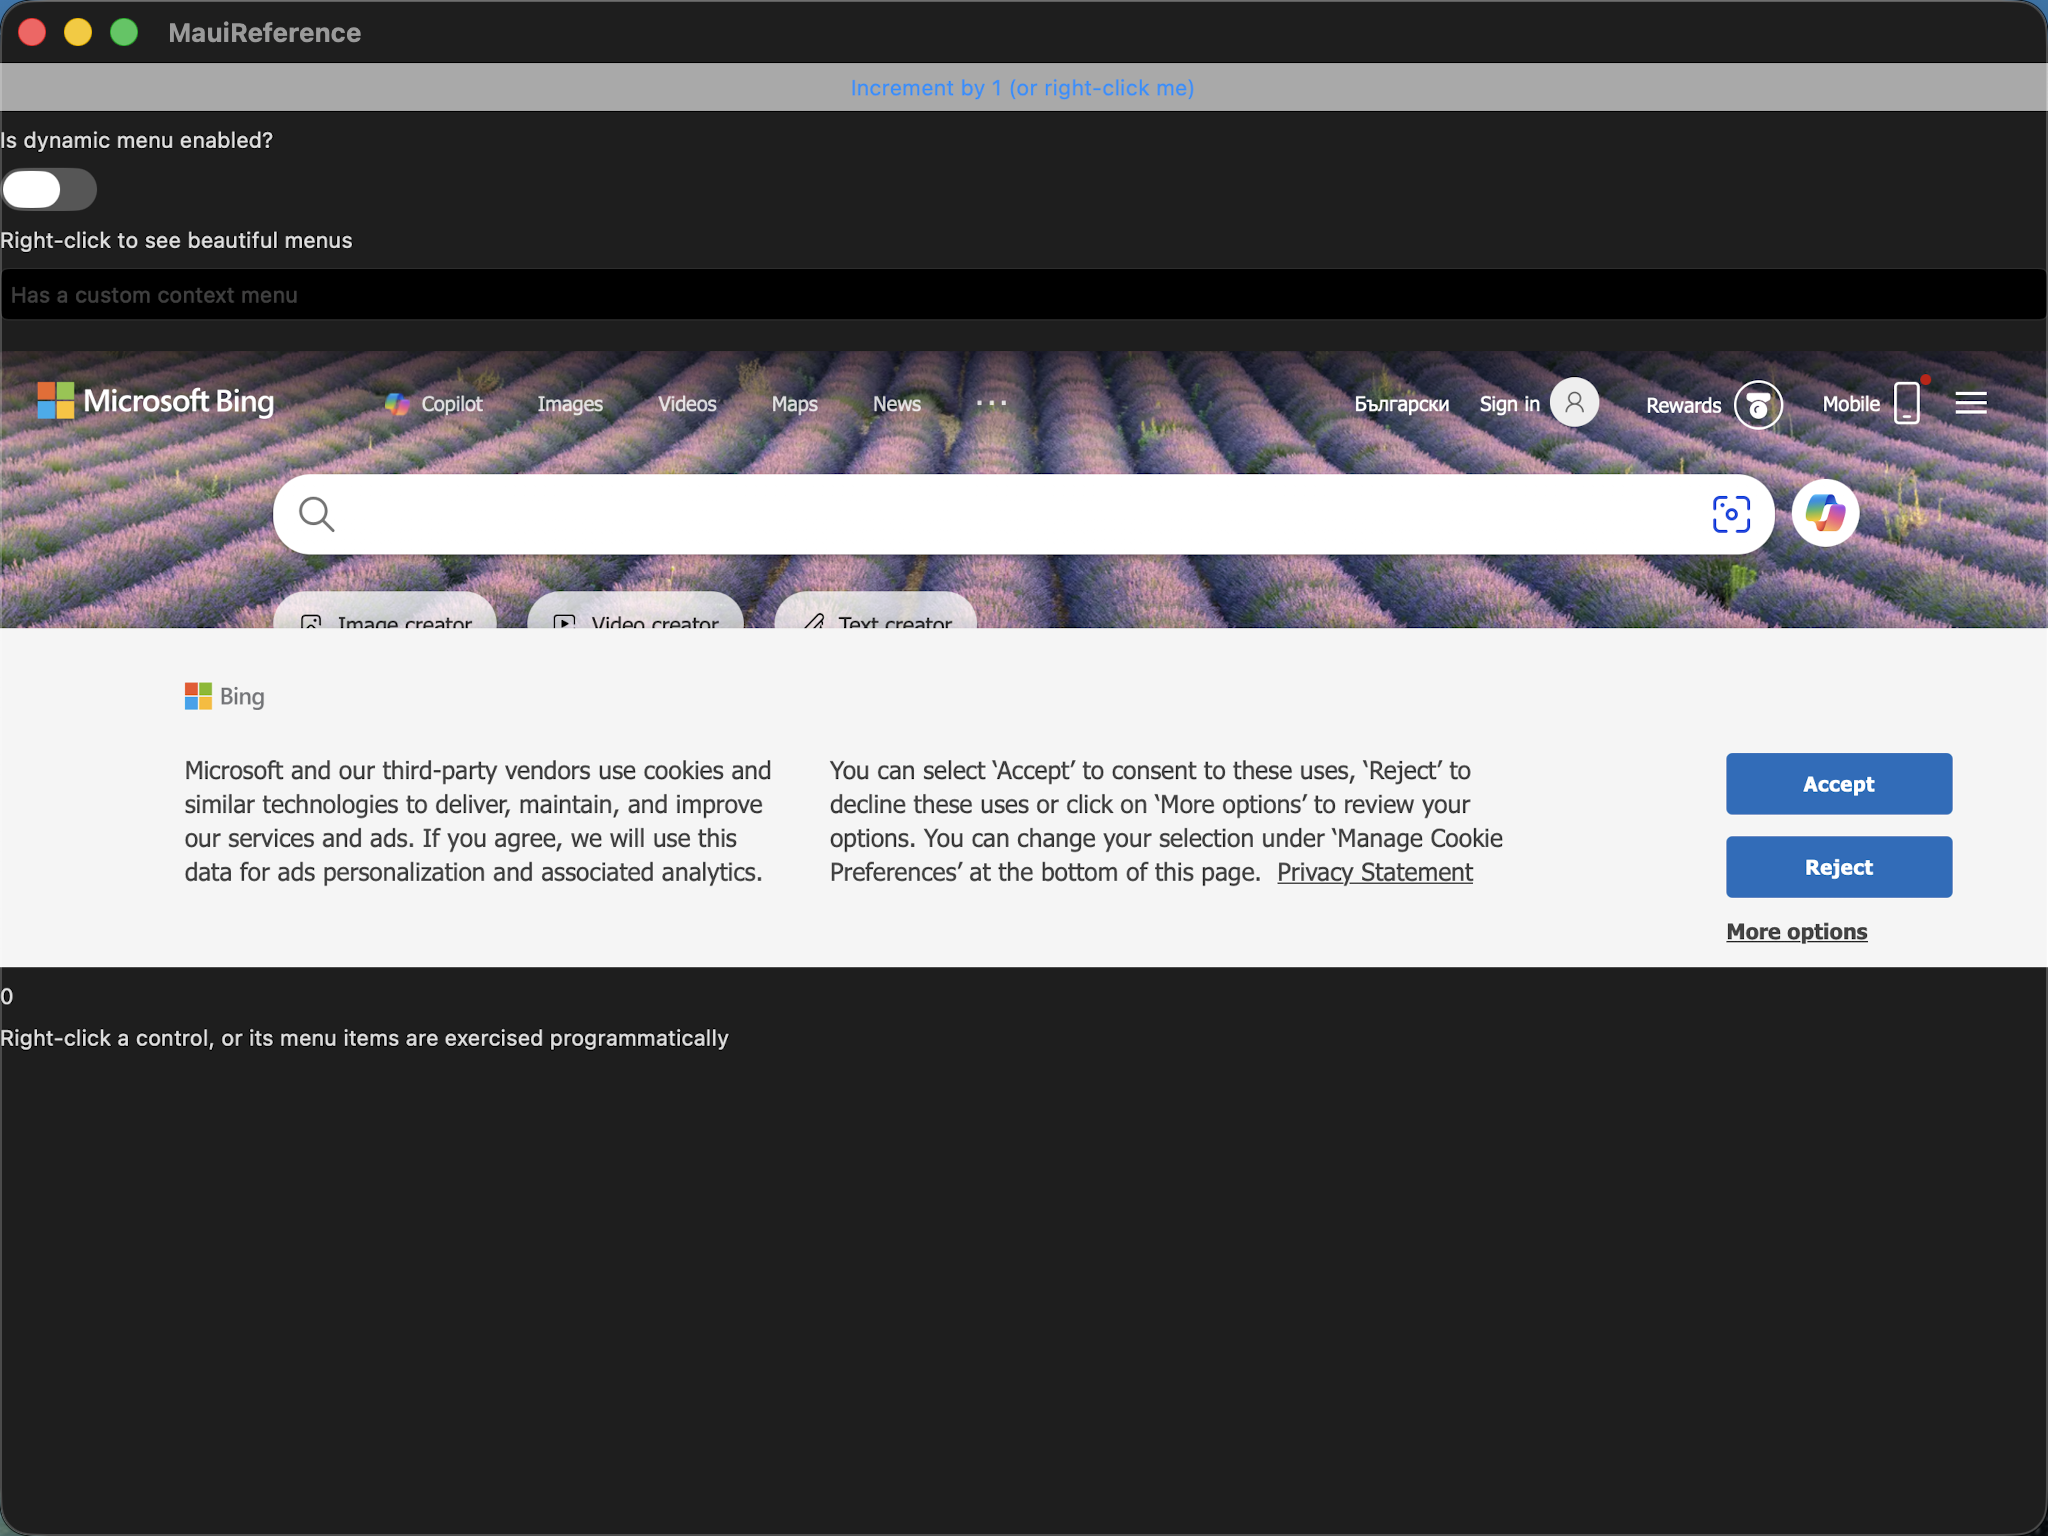
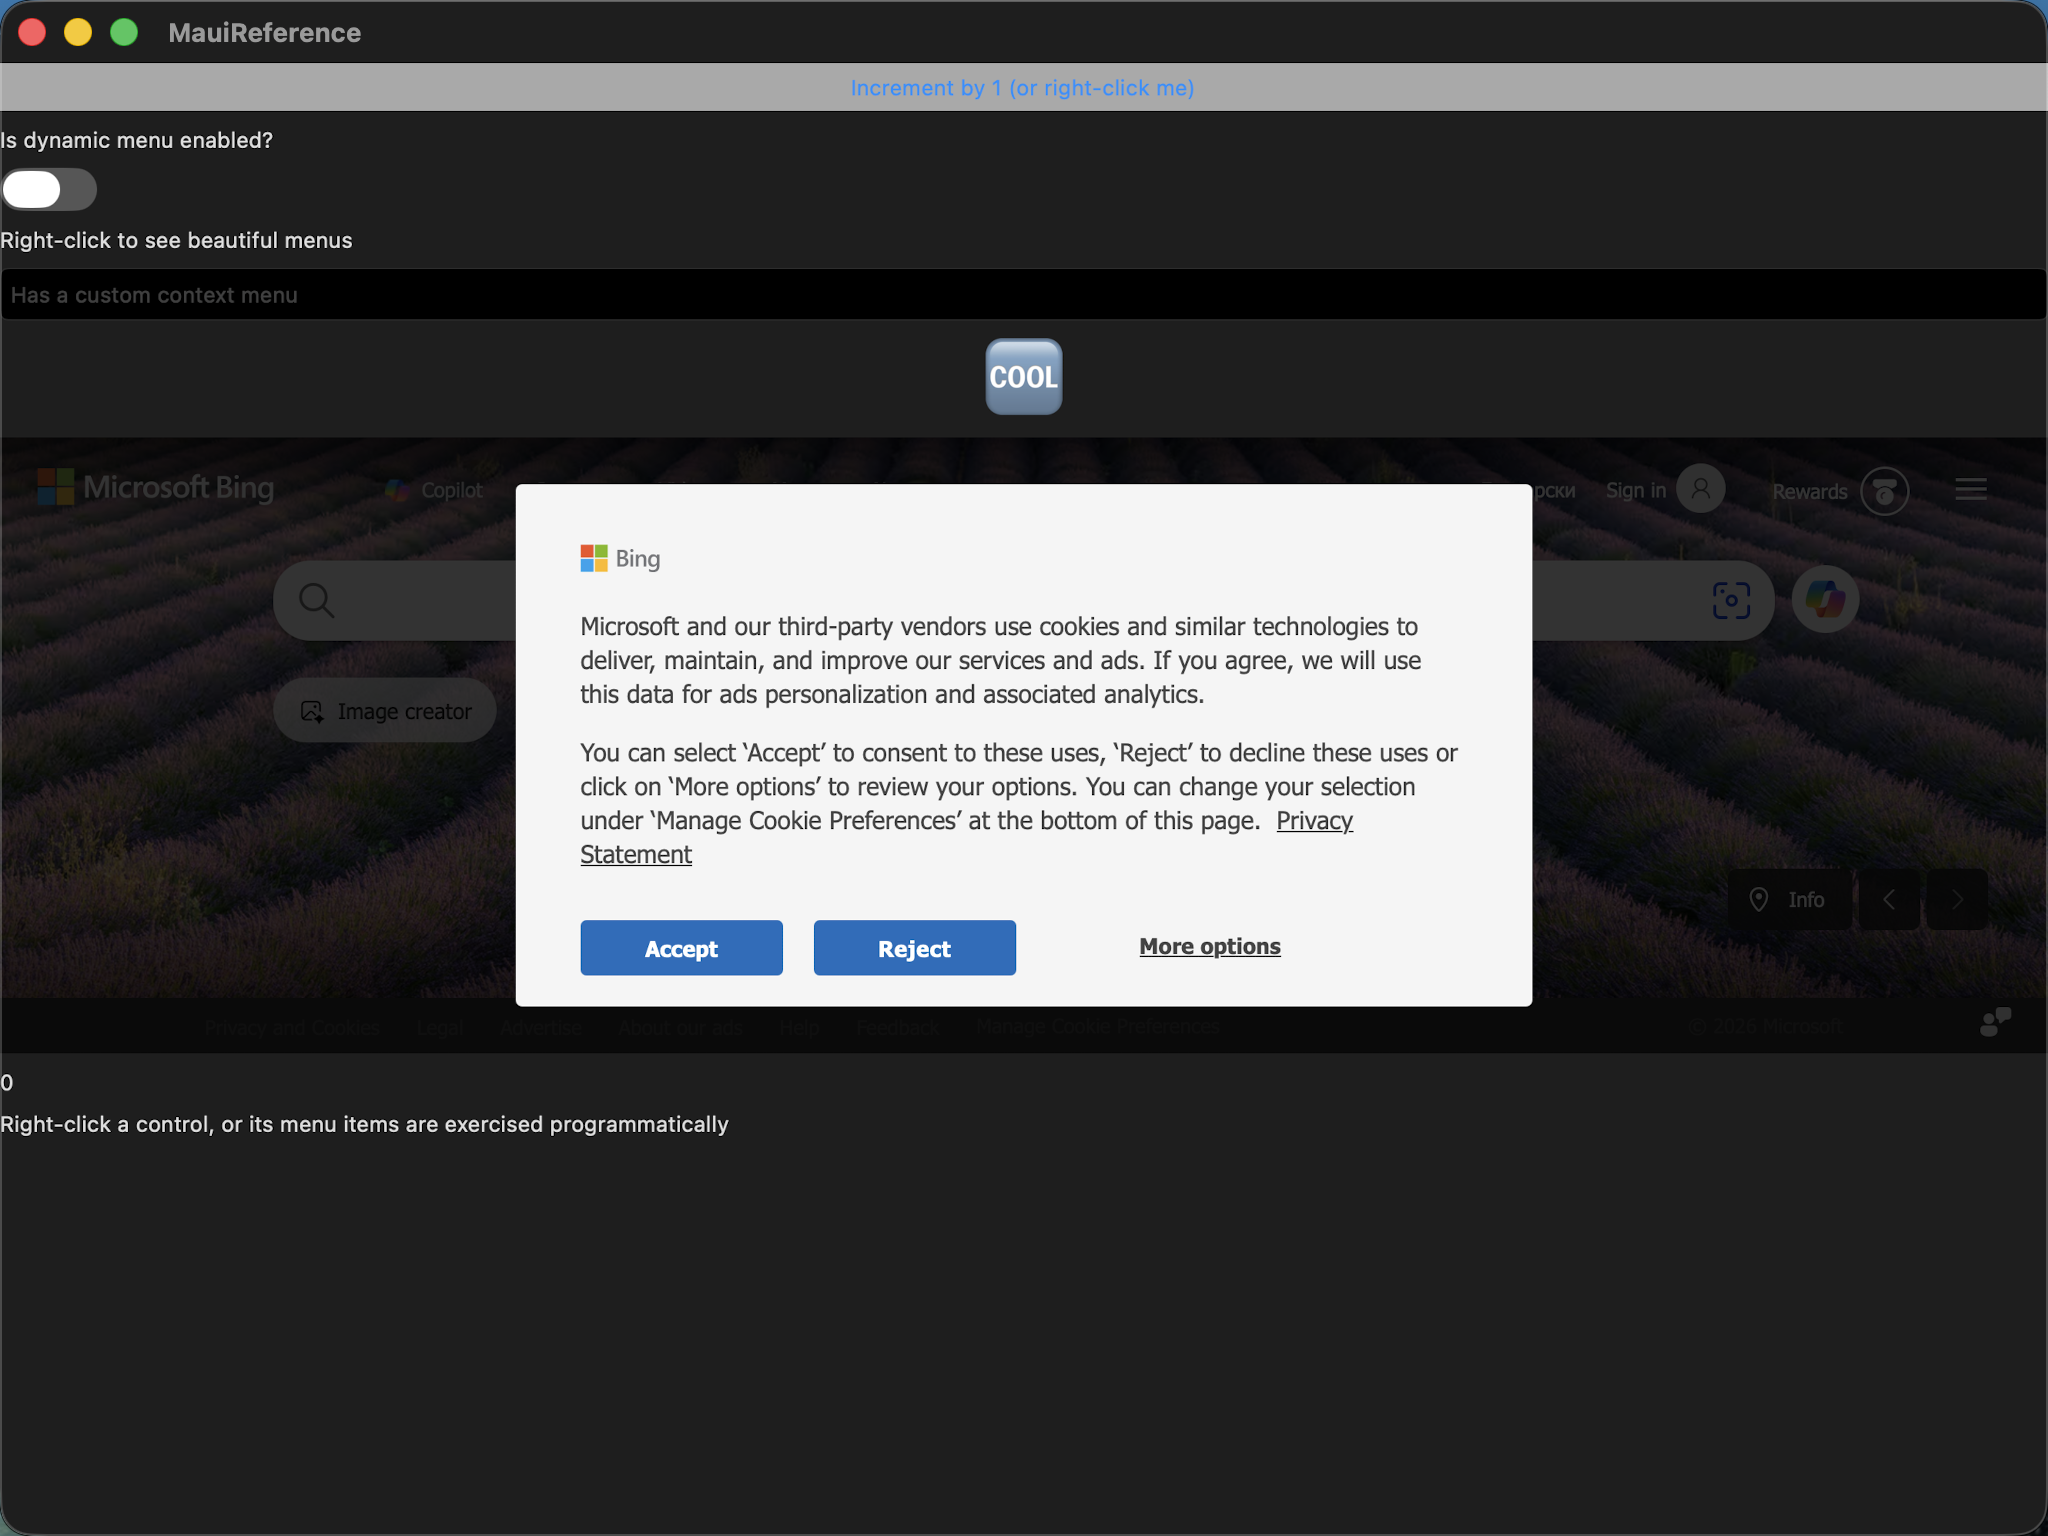
fix(gallery): align borderless/slider builders + context_flyout XAML with MAUI
borderless_page: drop the synthetic switch+readout interactive layer that
diverged from the shared borderless.xaml and, worse, collapsed the star-row
Grid to zero height inside an unconstrained VerticalStackLayout — content
IS the grid, per the C# Borderless.xaml and the twin.

slider_page: drop the code-first Background LinearGradientBrush (yellow to
green) on the 'Background' slider row; MAUI's Catalyst render paints no
gradient there and the canonical shared slider.xaml has always been a plain
Slider — the gradient scenario belongs in the P3 gap corpus, not here.

context_flyout.xaml: replace the placeholder Source="cool.png" with the
original C# gallery's <FontImageSource Glyph="🆒" FontFamily="Arial"
Color="MediumPurple" Size="50"/> element form (W17, already loader-
supported) and recapture the MAUI reference now that it renders the badge.

diff --git a/port/maui-reference/pages/context_flyout.xaml b/port/maui-reference/pages/context_flyout.xaml
@@ -6,7 +6,8 @@
          MenuFlyoutSubItem are page-chrome with no markup sink in the loader, so the entire flyout layer is
          omitted — only the in-page RESTING views are reproduced (the menus are hidden until a right-click
          anyway). The counter Label + status Label + Switch capture the observable readout the page shows at
-         rest. The 🆒 FontImageSource image + the bing.com WebView are best-effort (source set; no pixels). -->
+         rest. The 🆒 FontImageSource image carries the ORIGINAL element form (the loader's W17
+         FontImageSource support renders it); the bing.com WebView is live network content. -->
     <ScrollView>
         <VerticalStackLayout Spacing="10">
             <Button Text="Increment by 1 (or right-click me)" BackgroundColor="DarkGray" />
@@ -18,7 +19,11 @@
 
             <Entry Placeholder="Has a custom context menu" />
 
-            <Image Source="cool.png" MaximumHeightRequest="200" MaximumWidthRequest="200" />
+            <Image MaximumHeightRequest="200" MaximumWidthRequest="200">
+                <Image.Source>
+                    <FontImageSource Glyph="🆒" FontFamily="Arial" Color="MediumPurple" Size="50" />
+                </Image.Source>
+            </Image>
 
             <WebView Source="https://bing.com" MinimumHeightRequest="400" />
 

diff --git a/port/cpp/examples/gallery/pages/borderless_page.hpp b/port/cpp/examples/gallery/pages/borderless_page.hpp
@@ -13,11 +13,6 @@
 // implicit/keyed Style application (the port's style layer would resolve the same value; this page wires
 // the resulting property value-for-value so it renders identically on macOS + iOS).
 //
-// Interaction (a gallery-page readout convention, code-first): a toggle_switch flips both borders between
-// the borderless style (StrokeThickness 0, the XAML default) and a visible 8-unit black stroke, and a
-// readout label echoes which style is active — so the "Borderless" effect is demonstrable live rather
-// than only at rest.
-//
 // The page OWNS its whole element tree (the sample_app pattern). It is backend-agnostic — a sample main
 // attaches handlers bottom-up via the hosting layer and hosts page() in a window; the headless/apple/ios
 // test trees exercise the same wiring directly.
@@ -27,9 +22,6 @@
 #include "maui/controls/border.hpp"
 #include "maui/controls/content_page.hpp"
 #include "maui/controls/grid.hpp"
-#include "maui/controls/label.hpp"
-#include "maui/controls/toggle_switch.hpp"
-#include "maui/controls/vertical_stack_layout.hpp"
 #include "maui/core/grid_length.hpp"
 #include "maui/graphics/colors.hpp"
 #include "maui/graphics/solid_paint.hpp"
@@ -62,17 +54,10 @@ namespace maui::samples
             grid_.add(red_border_);
             grid_.set_row(red_border_, 1);
 
-            // The interactive layer: a switch to toggle the borderless style + a readout. This is a
-            // headless-safe gallery addition on top of the faithful XAML content (the page renders the two
-            // fields exactly as the C# sample at rest, with the switch starting OFF = borderless).
-            readout_.set_text("Style: borderless (StrokeThickness 0)");
-            stroke_switch_.toggled.connect([this](bool show_stroke) { set_stroke_visible(show_stroke); });
-
-            controls_.set_spacing(8);
-            controls_.add(readout_);
-            controls_.add(stroke_switch_);
-            controls_.add(grid_);
-            page_.set_content(controls_);
+            // Page content IS the grid, exactly as the C# sample and the canonical shared
+            // borderless.xaml (the earlier synthetic readout+switch layer diverged from the twin AND
+            // collapsed the star-row grid to zero height inside its unconstrained stack).
+            page_.set_content(grid_);
         }
 
         [[nodiscard]] maui::controls::content_page& page()
@@ -93,14 +78,6 @@ namespace maui::samples
         {
             return red_border_;
         }
-        [[nodiscard]] maui::controls::toggle_switch& stroke_switch()
-        {
-            return stroke_switch_;
-        }
-        [[nodiscard]] maui::controls::label& readout()
-        {
-            return readout_;
-        }
 
     private:
         // BorderlessStyle: StrokeThickness = 0 (the page's single Setter).
@@ -109,29 +86,7 @@ namespace maui::samples
             border.set_stroke_thickness(0);
         }
 
-        void set_stroke_visible(bool show_stroke)
-        {
-            if (show_stroke)
-            {
-                auto stroke = std::make_shared<maui::graphics::solid_paint>(maui::graphics::colors::black);
-                pink_border_.set_stroke(stroke);
-                red_border_.set_stroke(stroke);
-                pink_border_.set_stroke_thickness(8);
-                red_border_.set_stroke_thickness(8);
-                readout_.set_text("Style: bordered (StrokeThickness 8)");
-            }
-            else
-            {
-                apply_borderless(pink_border_);
-                apply_borderless(red_border_);
-                readout_.set_text("Style: borderless (StrokeThickness 0)");
-            }
-        }
-
         maui::controls::content_page page_;
-        maui::controls::vertical_stack_layout controls_;
-        maui::controls::label readout_;
-        maui::controls::toggle_switch stroke_switch_;
         maui::controls::grid grid_;
         maui::controls::border pink_border_;
         maui::controls::border red_border_;

diff --git a/port/cpp/examples/gallery/pages/slider_page.hpp b/port/cpp/examples/gallery/pages/slider_page.hpp
@@ -2,7 +2,7 @@
 // maui::samples::slider_page — ports SliderPage.xaml (+ .xaml.cs)
 //
 // Mirrors the MAUI gallery page: a vertical stack of headlined Slider states — Default, BackgroundColor
-// (Blue), Background (yellow→green LinearGradientBrush), Minimum(5)/Maximum(15) with a value readout
+// (Blue), Background (plain — see the note at the section), Minimum(5)/Maximum(15) with a value readout
 // (ValueChanged → Label, the x:Reference binding), Disabled, MinimumTrackColor (LightBlue),
 // MaximumTrackColor (Pink), ThumbColor (Orange), ThumbImageSource (toggled by a button), a custom
 // tri-color slider, a Dynamic slider whose Min/Max are mutated by two buttons (UpdateInfo readout), and a
@@ -20,8 +20,6 @@
 #include <utility>
 #include <vector>
 
-#include "maui/controls/brushes/gradient_stop.hpp"
-#include "maui/controls/brushes/linear_gradient_brush.hpp"
 #include "maui/controls/button.hpp"
 #include "maui/controls/content_page.hpp"
 #include "maui/controls/file_image_source.hpp"
@@ -52,15 +50,10 @@ namespace maui::samples
             bg_color_slider_.set_background(
                 std::make_shared<maui::graphics::solid_paint>(maui::graphics::colors::blue));
 
-            // --- Background (LinearGradientBrush yellow@0.1 → green@1.0, EndPoint 1,0) ---
+            // --- Background — a plain slider, matching the canonical shared slider.xaml (and MAUI's
+            // actual Catalyst render, which paints no gradient for a Slider Background; the original C#
+            // sample's LinearGradientBrush scenario moves to the P3 gap corpus as a probe page) ---
             background_headline_.set_text("Background");
-            {
-                std::vector<std::shared_ptr<maui::controls::gradient_stop>> stops;
-                stops.push_back(std::make_shared<maui::controls::gradient_stop>(maui::graphics::colors::yellow, 0.1F));
-                stops.push_back(std::make_shared<maui::controls::gradient_stop>(maui::graphics::colors::green, 1.0F));
-                background_slider_.set_background_brush(std::make_shared<maui::controls::linear_gradient_brush>(
-                    std::move(stops), maui::graphics::point{0, 0}, maui::graphics::point{1, 0}));
-            }
 
             // --- Minimum (5) and Maximum (15) — ValueChanged drives the readout (the x:Reference label) ---
             min_max_headline_.set_text("Minimum (5) and Maximum (15)");

diff --git a/port/cpp/tests/ui/gallery_structure_equivalence_tests.cpp b/port/cpp/tests/ui/gallery_structure_equivalence_tests.cpp
@@ -297,7 +297,6 @@ namespace
             "adaptive_collection",
             "custom_layout",
             "chat_example",
-            "borderless",
             "header_footer_view",
             "hybrid_web_view",
             "ios_scroll_view",
